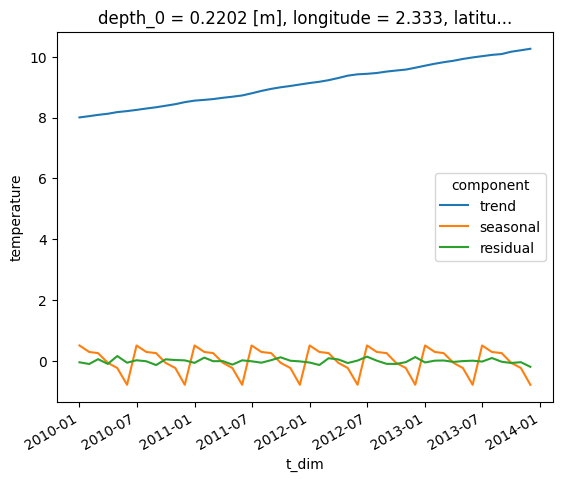
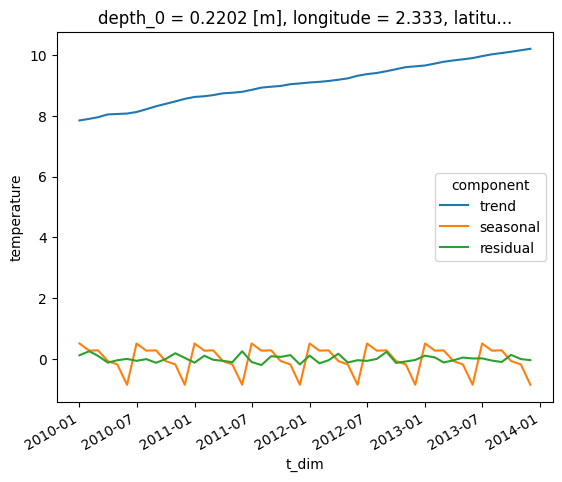
Updated General notebook pages from coast repo.

diff --git a/content/en/docs/Examples/Notebooks/General/seasonal_decomp_example.md b/content/en/docs/Examples/Notebooks/General/seasonal_decomp_example.md
@@ -86,7 +86,7 @@ temperature[0,0,:,:].plot()
 
 
 
-    <matplotlib.collections.QuadMesh at 0x7fad688f7370>
+    <matplotlib.collections.QuadMesh at 0x7fcfd92bd940>
 
 
 
@@ -107,7 +107,7 @@ temperature[:,0,200,200].plot()
 
 
 
-    [<matplotlib.lines.Line2D at 0x7fad68732be0>]
+    [<matplotlib.lines.Line2D at 0x7fcfd8102970>]
 
 
 
@@ -513,7 +513,7 @@ Dimensions without coordinates: z_dim, y_dim, x_dim
 Data variables:
     trend      (t_dim, z_dim, y_dim, x_dim) float64 nan nan nan ... nan nan nan
     seasonal   (t_dim, z_dim, y_dim, x_dim) float64 nan nan nan ... nan nan nan
-    residual   (t_dim, z_dim, y_dim, x_dim) float64 nan nan nan ... nan nan nan</pre><div class='xr-wrap' style='display:none'><div class='xr-header'><div class='xr-obj-type'>xarray.Dataset</div></div><ul class='xr-sections'><li class='xr-section-item'><input id='section-9a53614a-b17a-4e11-8e49-2e4498afccb7' class='xr-section-summary-in' type='checkbox' disabled ><label for='section-9a53614a-b17a-4e11-8e49-2e4498afccb7' class='xr-section-summary'  title='Expand/collapse section'>Dimensions:</label><div class='xr-section-inline-details'><ul class='xr-dim-list'><li><span class='xr-has-index'>t_dim</span>: 48</li><li><span>z_dim</span>: 2</li><li><span>y_dim</span>: 375</li><li><span>x_dim</span>: 297</li></ul></div><div class='xr-section-details'></div></li><li class='xr-section-item'><input id='section-b674655c-183f-48c9-b9ae-85b54980f654' class='xr-section-summary-in' type='checkbox'  checked><label for='section-b674655c-183f-48c9-b9ae-85b54980f654' class='xr-section-summary' >Coordinates: <span>(4)</span></label><div class='xr-section-inline-details'></div><div class='xr-section-details'><ul class='xr-var-list'><li class='xr-var-item'><div class='xr-var-name'><span class='xr-has-index'>t_dim</span></div><div class='xr-var-dims'>(t_dim)</div><div class='xr-var-dtype'>datetime64[ns]</div><div class='xr-var-preview xr-preview'>2010-01-01 ... 2013-12-01</div><input id='attrs-3d59f854-8b32-4ab8-88f6-3f6c4d7606b1' class='xr-var-attrs-in' type='checkbox' disabled><label for='attrs-3d59f854-8b32-4ab8-88f6-3f6c4d7606b1' title='Show/Hide attributes'><svg class='icon xr-icon-file-text2'><use xlink:href='#icon-file-text2'></use></svg></label><input id='data-1ee12c3d-2f89-483e-bb2e-12c6e25556ea' class='xr-var-data-in' type='checkbox'><label for='data-1ee12c3d-2f89-483e-bb2e-12c6e25556ea' title='Show/Hide data repr'><svg class='icon xr-icon-database'><use xlink:href='#icon-database'></use></svg></label><div class='xr-var-attrs'><dl class='xr-attrs'></dl></div><div class='xr-var-data'><pre>array([&#x27;2010-01-01T00:00:00.000000000&#x27;, &#x27;2010-02-01T00:00:00.000000000&#x27;,
+    residual   (t_dim, z_dim, y_dim, x_dim) float64 nan nan nan ... nan nan nan</pre><div class='xr-wrap' style='display:none'><div class='xr-header'><div class='xr-obj-type'>xarray.Dataset</div></div><ul class='xr-sections'><li class='xr-section-item'><input id='section-4c08141c-c533-4ceb-aad7-79b93a31ff3e' class='xr-section-summary-in' type='checkbox' disabled ><label for='section-4c08141c-c533-4ceb-aad7-79b93a31ff3e' class='xr-section-summary'  title='Expand/collapse section'>Dimensions:</label><div class='xr-section-inline-details'><ul class='xr-dim-list'><li><span class='xr-has-index'>t_dim</span>: 48</li><li><span>z_dim</span>: 2</li><li><span>y_dim</span>: 375</li><li><span>x_dim</span>: 297</li></ul></div><div class='xr-section-details'></div></li><li class='xr-section-item'><input id='section-34c41748-e281-484a-9c0f-b5594f1d3374' class='xr-section-summary-in' type='checkbox'  checked><label for='section-34c41748-e281-484a-9c0f-b5594f1d3374' class='xr-section-summary' >Coordinates: <span>(4)</span></label><div class='xr-section-inline-details'></div><div class='xr-section-details'><ul class='xr-var-list'><li class='xr-var-item'><div class='xr-var-name'><span class='xr-has-index'>t_dim</span></div><div class='xr-var-dims'>(t_dim)</div><div class='xr-var-dtype'>datetime64[ns]</div><div class='xr-var-preview xr-preview'>2010-01-01 ... 2013-12-01</div><input id='attrs-99e37010-c942-4c49-bc5f-b06e8b0562dd' class='xr-var-attrs-in' type='checkbox' disabled><label for='attrs-99e37010-c942-4c49-bc5f-b06e8b0562dd' title='Show/Hide attributes'><svg class='icon xr-icon-file-text2'><use xlink:href='#icon-file-text2'></use></svg></label><input id='data-b22e2c3a-e4fb-4fc7-9945-68b95d883dba' class='xr-var-data-in' type='checkbox'><label for='data-b22e2c3a-e4fb-4fc7-9945-68b95d883dba' title='Show/Hide data repr'><svg class='icon xr-icon-database'><use xlink:href='#icon-database'></use></svg></label><div class='xr-var-attrs'><dl class='xr-attrs'></dl></div><div class='xr-var-data'><pre>array([&#x27;2010-01-01T00:00:00.000000000&#x27;, &#x27;2010-02-01T00:00:00.000000000&#x27;,
        &#x27;2010-03-01T00:00:00.000000000&#x27;, &#x27;2010-04-01T00:00:00.000000000&#x27;,
        &#x27;2010-05-01T00:00:00.000000000&#x27;, &#x27;2010-06-01T00:00:00.000000000&#x27;,
        &#x27;2010-07-01T00:00:00.000000000&#x27;, &#x27;2010-08-01T00:00:00.000000000&#x27;,
@@ -537,7 +537,7 @@ Data variables:
        &#x27;2013-07-01T00:00:00.000000000&#x27;, &#x27;2013-08-01T00:00:00.000000000&#x27;,
        &#x27;2013-09-01T00:00:00.000000000&#x27;, &#x27;2013-10-01T00:00:00.000000000&#x27;,
        &#x27;2013-11-01T00:00:00.000000000&#x27;, &#x27;2013-12-01T00:00:00.000000000&#x27;],
-      dtype=&#x27;datetime64[ns]&#x27;)</pre></div></li><li class='xr-var-item'><div class='xr-var-name'><span>depth_0</span></div><div class='xr-var-dims'>(z_dim, y_dim, x_dim)</div><div class='xr-var-dtype'>float32</div><div class='xr-var-preview xr-preview'>0.5 0.5 0.5 0.5 ... 1.5 1.5 1.5 1.5</div><input id='attrs-328dbbc6-a132-4e90-bfa0-b6403dd4140d' class='xr-var-attrs-in' type='checkbox' ><label for='attrs-328dbbc6-a132-4e90-bfa0-b6403dd4140d' title='Show/Hide attributes'><svg class='icon xr-icon-file-text2'><use xlink:href='#icon-file-text2'></use></svg></label><input id='data-8e2b34e1-20d1-4df3-bc96-fc9ef545d17d' class='xr-var-data-in' type='checkbox'><label for='data-8e2b34e1-20d1-4df3-bc96-fc9ef545d17d' title='Show/Hide data repr'><svg class='icon xr-icon-database'><use xlink:href='#icon-database'></use></svg></label><div class='xr-var-attrs'><dl class='xr-attrs'><dt><span>units :</span></dt><dd>m</dd><dt><span>standard_name :</span></dt><dd>Depth at time zero on the t-grid</dd></dl></div><div class='xr-var-data'><pre>array([[[0.5       , 0.5       , 0.5       , ..., 0.5       ,
+      dtype=&#x27;datetime64[ns]&#x27;)</pre></div></li><li class='xr-var-item'><div class='xr-var-name'><span>depth_0</span></div><div class='xr-var-dims'>(z_dim, y_dim, x_dim)</div><div class='xr-var-dtype'>float32</div><div class='xr-var-preview xr-preview'>0.5 0.5 0.5 0.5 ... 1.5 1.5 1.5 1.5</div><input id='attrs-6abf9959-8ba5-461b-bfc3-fb1d347e4b8c' class='xr-var-attrs-in' type='checkbox' ><label for='attrs-6abf9959-8ba5-461b-bfc3-fb1d347e4b8c' title='Show/Hide attributes'><svg class='icon xr-icon-file-text2'><use xlink:href='#icon-file-text2'></use></svg></label><input id='data-60b2a2ac-f40b-42c7-a2a1-fdef64d06804' class='xr-var-data-in' type='checkbox'><label for='data-60b2a2ac-f40b-42c7-a2a1-fdef64d06804' title='Show/Hide data repr'><svg class='icon xr-icon-database'><use xlink:href='#icon-database'></use></svg></label><div class='xr-var-attrs'><dl class='xr-attrs'><dt><span>units :</span></dt><dd>m</dd><dt><span>standard_name :</span></dt><dd>Depth at time zero on the t-grid</dd></dl></div><div class='xr-var-data'><pre>array([[[0.5       , 0.5       , 0.5       , ..., 0.5       ,
          0.5       , 0.5       ],
         [0.5       , 0.4975586 , 0.4975586 , ..., 0.10009766,
          0.10009766, 0.5       ],
@@ -563,7 +563,7 @@ Data variables:
         [1.5       , 0.30029297, 0.30029297, ..., 0.30029297,
          0.30029297, 1.5       ],
         [1.5       , 1.5       , 1.5       , ..., 1.5       ,
-         1.5       , 1.5       ]]], dtype=float32)</pre></div></li><li class='xr-var-item'><div class='xr-var-name'><span>longitude</span></div><div class='xr-var-dims'>(y_dim, x_dim)</div><div class='xr-var-dtype'>float32</div><div class='xr-var-preview xr-preview'>-19.89 -19.78 -19.67 ... 12.89 13.0</div><input id='attrs-7f60222c-3e94-4bce-b18e-4366d7eba874' class='xr-var-attrs-in' type='checkbox' disabled><label for='attrs-7f60222c-3e94-4bce-b18e-4366d7eba874' title='Show/Hide attributes'><svg class='icon xr-icon-file-text2'><use xlink:href='#icon-file-text2'></use></svg></label><input id='data-36b18d7b-c2fe-4b39-80c2-059b82d08724' class='xr-var-data-in' type='checkbox'><label for='data-36b18d7b-c2fe-4b39-80c2-059b82d08724' title='Show/Hide data repr'><svg class='icon xr-icon-database'><use xlink:href='#icon-database'></use></svg></label><div class='xr-var-attrs'><dl class='xr-attrs'></dl></div><div class='xr-var-data'><pre>array([[-19.888672, -19.777344, -19.666992, ...,  12.777344,  12.888672,
+         1.5       , 1.5       ]]], dtype=float32)</pre></div></li><li class='xr-var-item'><div class='xr-var-name'><span>longitude</span></div><div class='xr-var-dims'>(y_dim, x_dim)</div><div class='xr-var-dtype'>float32</div><div class='xr-var-preview xr-preview'>-19.89 -19.78 -19.67 ... 12.89 13.0</div><input id='attrs-c411c6ae-6bab-428e-be4c-a2239e6eac44' class='xr-var-attrs-in' type='checkbox' disabled><label for='attrs-c411c6ae-6bab-428e-be4c-a2239e6eac44' title='Show/Hide attributes'><svg class='icon xr-icon-file-text2'><use xlink:href='#icon-file-text2'></use></svg></label><input id='data-91ef1582-5d37-48c0-a7ac-b213e724da70' class='xr-var-data-in' type='checkbox'><label for='data-91ef1582-5d37-48c0-a7ac-b213e724da70' title='Show/Hide data repr'><svg class='icon xr-icon-database'><use xlink:href='#icon-database'></use></svg></label><div class='xr-var-attrs'><dl class='xr-attrs'></dl></div><div class='xr-var-data'><pre>array([[-19.888672, -19.777344, -19.666992, ...,  12.777344,  12.888672,
          13.      ],
        [-19.888672, -19.777344, -19.666992, ...,  12.777344,  12.888672,
          13.      ],
@@ -575,7 +575,7 @@ Data variables:
        [-19.888672, -19.777344, -19.666992, ...,  12.777344,  12.888672,
          13.      ],
        [-19.888672, -19.777344, -19.666992, ...,  12.777344,  12.888672,
-         13.      ]], dtype=float32)</pre></div></li><li class='xr-var-item'><div class='xr-var-name'><span>latitude</span></div><div class='xr-var-dims'>(y_dim, x_dim)</div><div class='xr-var-dtype'>float32</div><div class='xr-var-preview xr-preview'>40.07 40.07 40.07 ... 65.0 65.0</div><input id='attrs-10417e07-8bd2-4e39-9b8f-83a105df66ca' class='xr-var-attrs-in' type='checkbox' disabled><label for='attrs-10417e07-8bd2-4e39-9b8f-83a105df66ca' title='Show/Hide attributes'><svg class='icon xr-icon-file-text2'><use xlink:href='#icon-file-text2'></use></svg></label><input id='data-87c465fe-e360-4a72-bd39-715e9689cc9f' class='xr-var-data-in' type='checkbox'><label for='data-87c465fe-e360-4a72-bd39-715e9689cc9f' title='Show/Hide data repr'><svg class='icon xr-icon-database'><use xlink:href='#icon-database'></use></svg></label><div class='xr-var-attrs'><dl class='xr-attrs'></dl></div><div class='xr-var-data'><pre>array([[40.066406, 40.066406, 40.066406, ..., 40.066406, 40.066406,
+         13.      ]], dtype=float32)</pre></div></li><li class='xr-var-item'><div class='xr-var-name'><span>latitude</span></div><div class='xr-var-dims'>(y_dim, x_dim)</div><div class='xr-var-dtype'>float32</div><div class='xr-var-preview xr-preview'>40.07 40.07 40.07 ... 65.0 65.0</div><input id='attrs-d59223e6-a539-4040-9f0d-6a7393795c85' class='xr-var-attrs-in' type='checkbox' disabled><label for='attrs-d59223e6-a539-4040-9f0d-6a7393795c85' title='Show/Hide attributes'><svg class='icon xr-icon-file-text2'><use xlink:href='#icon-file-text2'></use></svg></label><input id='data-c4f6bcca-dacb-4ab5-b6f5-d79cb714a9de' class='xr-var-data-in' type='checkbox'><label for='data-c4f6bcca-dacb-4ab5-b6f5-d79cb714a9de' title='Show/Hide data repr'><svg class='icon xr-icon-database'><use xlink:href='#icon-database'></use></svg></label><div class='xr-var-attrs'><dl class='xr-attrs'></dl></div><div class='xr-var-data'><pre>array([[40.066406, 40.066406, 40.066406, ..., 40.066406, 40.066406,
         40.066406],
        [40.13379 , 40.13379 , 40.13379 , ..., 40.13379 , 40.13379 ,
         40.13379 ],
@@ -587,11 +587,11 @@ Data variables:
        [64.93457 , 64.93457 , 64.93457 , ..., 64.93457 , 64.93457 ,
         64.93457 ],
        [65.00098 , 65.00098 , 65.00098 , ..., 65.00098 , 65.00098 ,
-        65.00098 ]], dtype=float32)</pre></div></li></ul></div></li><li class='xr-section-item'><input id='section-8f862f24-df27-46d8-80e7-75d55375ce6d' class='xr-section-summary-in' type='checkbox'  checked><label for='section-8f862f24-df27-46d8-80e7-75d55375ce6d' class='xr-section-summary' >Data variables: <span>(3)</span></label><div class='xr-section-inline-details'></div><div class='xr-section-details'><ul class='xr-var-list'><li class='xr-var-item'><div class='xr-var-name'><span>trend</span></div><div class='xr-var-dims'>(t_dim, z_dim, y_dim, x_dim)</div><div class='xr-var-dtype'>float64</div><div class='xr-var-preview xr-preview'>nan nan nan nan ... nan nan nan nan</div><input id='attrs-f745887b-48f5-48a1-abe2-ff3b0f85e9ae' class='xr-var-attrs-in' type='checkbox' disabled><label for='attrs-f745887b-48f5-48a1-abe2-ff3b0f85e9ae' title='Show/Hide attributes'><svg class='icon xr-icon-file-text2'><use xlink:href='#icon-file-text2'></use></svg></label><input id='data-b22c8040-c77f-43cd-8801-0250910d86e5' class='xr-var-data-in' type='checkbox'><label for='data-b22c8040-c77f-43cd-8801-0250910d86e5' title='Show/Hide data repr'><svg class='icon xr-icon-database'><use xlink:href='#icon-database'></use></svg></label><div class='xr-var-attrs'><dl class='xr-attrs'></dl></div><div class='xr-var-data'><pre>array([[[[        nan,         nan,         nan, ...,         nan,
+        65.00098 ]], dtype=float32)</pre></div></li></ul></div></li><li class='xr-section-item'><input id='section-ebfbed9d-ce82-4ccc-bb8b-6e975e1d0f09' class='xr-section-summary-in' type='checkbox'  checked><label for='section-ebfbed9d-ce82-4ccc-bb8b-6e975e1d0f09' class='xr-section-summary' >Data variables: <span>(3)</span></label><div class='xr-section-inline-details'></div><div class='xr-section-details'><ul class='xr-var-list'><li class='xr-var-item'><div class='xr-var-name'><span>trend</span></div><div class='xr-var-dims'>(t_dim, z_dim, y_dim, x_dim)</div><div class='xr-var-dtype'>float64</div><div class='xr-var-preview xr-preview'>nan nan nan nan ... nan nan nan nan</div><input id='attrs-9777eb3a-a11c-4489-89ca-3877cffc5fd9' class='xr-var-attrs-in' type='checkbox' disabled><label for='attrs-9777eb3a-a11c-4489-89ca-3877cffc5fd9' title='Show/Hide attributes'><svg class='icon xr-icon-file-text2'><use xlink:href='#icon-file-text2'></use></svg></label><input id='data-aec4f6b4-5810-42da-8941-3695e716f00e' class='xr-var-data-in' type='checkbox'><label for='data-aec4f6b4-5810-42da-8941-3695e716f00e' title='Show/Hide data repr'><svg class='icon xr-icon-database'><use xlink:href='#icon-database'></use></svg></label><div class='xr-var-attrs'><dl class='xr-attrs'></dl></div><div class='xr-var-data'><pre>array([[[[        nan,         nan,         nan, ...,         nan,
                   nan,         nan],
-         [        nan, 15.41700162, 15.41374641, ...,         nan,
+         [        nan, 15.25441949, 15.25116429, ...,         nan,
                   nan,         nan],
-         [        nan, 15.40593391, 15.5737399 , ...,         nan,
+         [        nan, 15.24335179, 15.41115778, ...,         nan,
                   nan,         nan],
          ...,
          [        nan,         nan,         nan, ...,         nan,
@@ -603,9 +603,9 @@ Data variables:
 
         [[        nan,         nan,         nan, ...,         nan,
                   nan,         nan],
-         [        nan, 15.41602506, 15.41293261, ...,         nan,
+         [        nan, 15.25344293, 15.25035048, ...,         nan,
                   nan,         nan],
-         [        nan, 15.40479459, 15.57764615, ...,         nan,
+         [        nan, 15.24221246, 15.41506403, ...,         nan,
                   nan,         nan],
 ...
          [        nan,         nan,         nan, ...,         nan,
@@ -617,9 +617,9 @@ Data variables:
 
         [[        nan,         nan,         nan, ...,         nan,
                   nan,         nan],
-         [        nan, 17.6710319 , 17.66793945, ...,         nan,
+         [        nan, 17.60855116, 17.60545871, ...,         nan,
                   nan,         nan],
-         [        nan, 17.65980143, 17.83265299, ...,         nan,
+         [        nan, 17.59732069, 17.77017226, ...,         nan,
                   nan,         nan],
          ...,
          [        nan,         nan,         nan, ...,         nan,
@@ -627,11 +627,11 @@ Data variables:
          [        nan,         nan,         nan, ...,         nan,
                   nan,         nan],
          [        nan,         nan,         nan, ...,         nan,
-                  nan,         nan]]]])</pre></div></li><li class='xr-var-item'><div class='xr-var-name'><span>seasonal</span></div><div class='xr-var-dims'>(t_dim, z_dim, y_dim, x_dim)</div><div class='xr-var-dtype'>float64</div><div class='xr-var-preview xr-preview'>nan nan nan nan ... nan nan nan nan</div><input id='attrs-b651fbf0-8aae-4b2c-b82d-a3c873fb40a3' class='xr-var-attrs-in' type='checkbox' disabled><label for='attrs-b651fbf0-8aae-4b2c-b82d-a3c873fb40a3' title='Show/Hide attributes'><svg class='icon xr-icon-file-text2'><use xlink:href='#icon-file-text2'></use></svg></label><input id='data-2dbe69a7-c7f6-4b63-9810-5de23d256f30' class='xr-var-data-in' type='checkbox'><label for='data-2dbe69a7-c7f6-4b63-9810-5de23d256f30' title='Show/Hide data repr'><svg class='icon xr-icon-database'><use xlink:href='#icon-database'></use></svg></label><div class='xr-var-attrs'><dl class='xr-attrs'></dl></div><div class='xr-var-data'><pre>array([[[[        nan,         nan,         nan, ...,         nan,
+                  nan,         nan]]]])</pre></div></li><li class='xr-var-item'><div class='xr-var-name'><span>seasonal</span></div><div class='xr-var-dims'>(t_dim, z_dim, y_dim, x_dim)</div><div class='xr-var-dtype'>float64</div><div class='xr-var-preview xr-preview'>nan nan nan nan ... nan nan nan nan</div><input id='attrs-af9f86e1-4b46-483a-8e12-3b86195745ad' class='xr-var-attrs-in' type='checkbox' disabled><label for='attrs-af9f86e1-4b46-483a-8e12-3b86195745ad' title='Show/Hide attributes'><svg class='icon xr-icon-file-text2'><use xlink:href='#icon-file-text2'></use></svg></label><input id='data-b161cca0-f146-455f-ae16-32a79a217852' class='xr-var-data-in' type='checkbox'><label for='data-b161cca0-f146-455f-ae16-32a79a217852' title='Show/Hide data repr'><svg class='icon xr-icon-database'><use xlink:href='#icon-database'></use></svg></label><div class='xr-var-attrs'><dl class='xr-attrs'></dl></div><div class='xr-var-data'><pre>array([[[[        nan,         nan,         nan, ...,         nan,
                   nan,         nan],
-         [        nan,  0.04289547, -0.04076339, ...,         nan,
+         [        nan,  0.04581561, -0.03784324, ...,         nan,
                   nan,         nan],
-         [        nan,  0.06861161,  0.29826656, ...,         nan,
+         [        nan,  0.07153176,  0.30118671, ...,         nan,
                   nan,         nan],
          ...,
          [        nan,         nan,         nan, ...,         nan,
@@ -643,9 +643,9 @@ Data variables:
 
         [[        nan,         nan,         nan, ...,         nan,
                   nan,         nan],
-         [        nan,  0.03215328, -0.05166834, ...,         nan,
+         [        nan,  0.03507343, -0.04874819, ...,         nan,
                   nan,         nan],
-         [        nan,  0.05803218,  0.29436031, ...,         nan,
+         [        nan,  0.06095233,  0.29728046, ...,         nan,
                   nan,         nan],
 ...
          [        nan,         nan,         nan, ...,         nan,
@@ -657,9 +657,9 @@ Data variables:
 
         [[        nan,         nan,         nan, ...,         nan,
                   nan,         nan],
-         [        nan, -0.29047158, -0.27370725, ...,         nan,
+         [        nan, -0.3529051 , -0.33614077, ...,         nan,
                   nan,         nan],
-         [        nan, -0.30072548, -0.64935829, ...,         nan,
+         [        nan, -0.363159  , -0.71179182, ...,         nan,
                   nan,         nan],
          ...,
          [        nan,         nan,         nan, ...,         nan,
@@ -667,11 +667,11 @@ Data variables:
          [        nan,         nan,         nan, ...,         nan,
                   nan,         nan],
          [        nan,         nan,         nan, ...,         nan,
-                  nan,         nan]]]])</pre></div></li><li class='xr-var-item'><div class='xr-var-name'><span>residual</span></div><div class='xr-var-dims'>(t_dim, z_dim, y_dim, x_dim)</div><div class='xr-var-dtype'>float64</div><div class='xr-var-preview xr-preview'>nan nan nan nan ... nan nan nan nan</div><input id='attrs-74a29057-3330-4243-94eb-20cde5d93fae' class='xr-var-attrs-in' type='checkbox' disabled><label for='attrs-74a29057-3330-4243-94eb-20cde5d93fae' title='Show/Hide attributes'><svg class='icon xr-icon-file-text2'><use xlink:href='#icon-file-text2'></use></svg></label><input id='data-fde2e497-d44a-41f6-b590-38038f1096ed' class='xr-var-data-in' type='checkbox'><label for='data-fde2e497-d44a-41f6-b590-38038f1096ed' title='Show/Hide data repr'><svg class='icon xr-icon-database'><use xlink:href='#icon-database'></use></svg></label><div class='xr-var-attrs'><dl class='xr-attrs'></dl></div><div class='xr-var-data'><pre>array([[[[        nan,         nan,         nan, ...,         nan,
+                  nan,         nan]]]])</pre></div></li><li class='xr-var-item'><div class='xr-var-name'><span>residual</span></div><div class='xr-var-dims'>(t_dim, z_dim, y_dim, x_dim)</div><div class='xr-var-dtype'>float64</div><div class='xr-var-preview xr-preview'>nan nan nan nan ... nan nan nan nan</div><input id='attrs-bcd6c89f-75b6-48ef-9286-27545def4717' class='xr-var-attrs-in' type='checkbox' disabled><label for='attrs-bcd6c89f-75b6-48ef-9286-27545def4717' title='Show/Hide attributes'><svg class='icon xr-icon-file-text2'><use xlink:href='#icon-file-text2'></use></svg></label><input id='data-68f63d26-a282-4903-86c2-62e4542a62e4' class='xr-var-data-in' type='checkbox'><label for='data-68f63d26-a282-4903-86c2-62e4542a62e4' title='Show/Hide data repr'><svg class='icon xr-icon-database'><use xlink:href='#icon-database'></use></svg></label><div class='xr-var-attrs'><dl class='xr-attrs'></dl></div><div class='xr-var-data'><pre>array([[[[        nan,         nan,         nan, ...,         nan,
                   nan,         nan],
-         [        nan, -0.04164842, -0.04164842, ...,         nan,
+         [        nan,  0.12650371,  0.12650371, ...,         nan,
                   nan,         nan],
-         [        nan, -0.04164842, -0.04164842, ...,         nan,
+         [        nan,  0.12650371,  0.12650371, ...,         nan,
                   nan,         nan],
          ...,
          [        nan,         nan,         nan, ...,         nan,
@@ -683,9 +683,9 @@ Data variables:
 
         [[        nan,         nan,         nan, ...,         nan,
                   nan,         nan],
-         [        nan, -0.04164842, -0.04164842, ...,         nan,
+         [        nan,  0.12650371,  0.12650371, ...,         nan,
                   nan,         nan],
-         [        nan, -0.04164842, -0.04164842, ...,         nan,
+         [        nan,  0.12650371,  0.12650371, ...,         nan,
                   nan,         nan],
 ...
          [        nan,         nan,         nan, ...,         nan,
@@ -697,9 +697,9 @@ Data variables:
 
         [[        nan,         nan,         nan, ...,         nan,
                   nan,         nan],
-         [        nan, -0.19018953, -0.19018953, ...,         nan,
+         [        nan, -0.03357343, -0.03357343, ...,         nan,
                   nan,         nan],
-         [        nan, -0.19018953, -0.19018953, ...,         nan,
+         [        nan, -0.03357343, -0.03357343, ...,         nan,
                   nan,         nan],
          ...,
          [        nan,         nan,         nan, ...,         nan,
@@ -707,7 +707,7 @@ Data variables:
          [        nan,         nan,         nan, ...,         nan,
                   nan,         nan],
          [        nan,         nan,         nan, ...,         nan,
-                  nan,         nan]]]])</pre></div></li></ul></div></li><li class='xr-section-item'><input id='section-dc0ab291-a9b9-4442-8876-8411d7e5cdf6' class='xr-section-summary-in' type='checkbox' disabled ><label for='section-dc0ab291-a9b9-4442-8876-8411d7e5cdf6' class='xr-section-summary'  title='Expand/collapse section'>Attributes: <span>(0)</span></label><div class='xr-section-inline-details'></div><div class='xr-section-details'><dl class='xr-attrs'></dl></div></li></ul></div></div>
+                  nan,         nan]]]])</pre></div></li></ul></div></li><li class='xr-section-item'><input id='section-7aa492e7-8ed3-4814-83ff-0977d1d044c9' class='xr-section-summary-in' type='checkbox' disabled ><label for='section-7aa492e7-8ed3-4814-83ff-0977d1d044c9' class='xr-section-summary'  title='Expand/collapse section'>Attributes: <span>(0)</span></label><div class='xr-section-inline-details'></div><div class='xr-section-details'><dl class='xr-attrs'></dl></div></li></ul></div></div>
 
 
 
@@ -726,9 +726,9 @@ temp_decomp[:,:,0,200,200].plot(hue="component")
 
 
 
-    [<matplotlib.lines.Line2D at 0x7fad68685970>,
-     <matplotlib.lines.Line2D at 0x7fad685d7ee0>,
-     <matplotlib.lines.Line2D at 0x7fad685d7f10>]
+    [<matplotlib.lines.Line2D at 0x7fcfd804ad60>,
+     <matplotlib.lines.Line2D at 0x7fcfd1fa0a30>,
+     <matplotlib.lines.Line2D at 0x7fcfd1f94340>]
 
 
 

diff --git a/content/en/docs/Examples/Notebooks/General/eof_tutorial.md b/content/en/docs/Examples/Notebooks/General/eof_tutorial.md
@@ -70,7 +70,7 @@ eof_data.EOF.sel(mode=[1,2,3,4]).plot.pcolormesh(col='mode',col_wrap=2,x='longit
 
 
 
-    <xarray.plot.facetgrid.FacetGrid at 0x7f4b71669130>
+    <xarray.plot.facetgrid.FacetGrid at 0x7f8b54c4cdc0>
 
 
 
@@ -88,7 +88,7 @@ eof_data.temporal_proj.sel(mode=[1,2,3,4]).plot(col='mode',col_wrap=2,x='time')
 
 
 
-    <xarray.plot.facetgrid.FacetGrid at 0x7f4b70106eb0>
+    <xarray.plot.facetgrid.FacetGrid at 0x7f8b54c69190>
 
 
 
